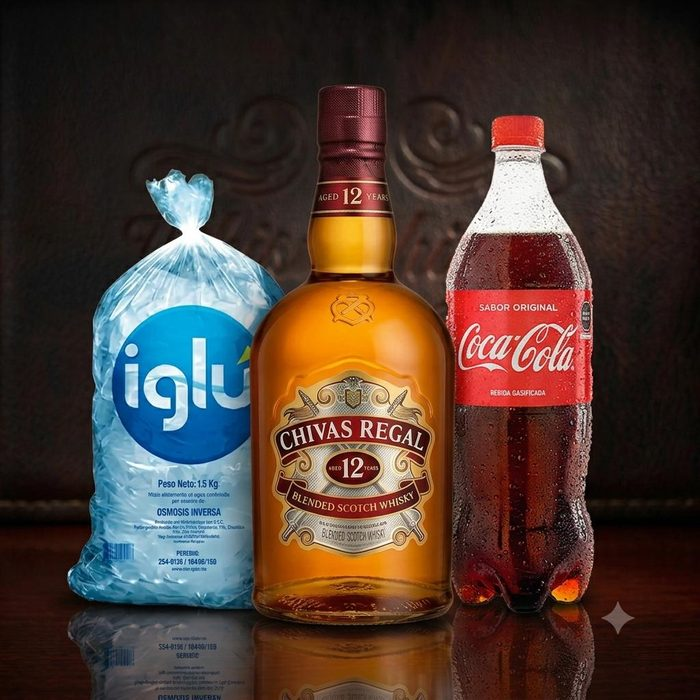
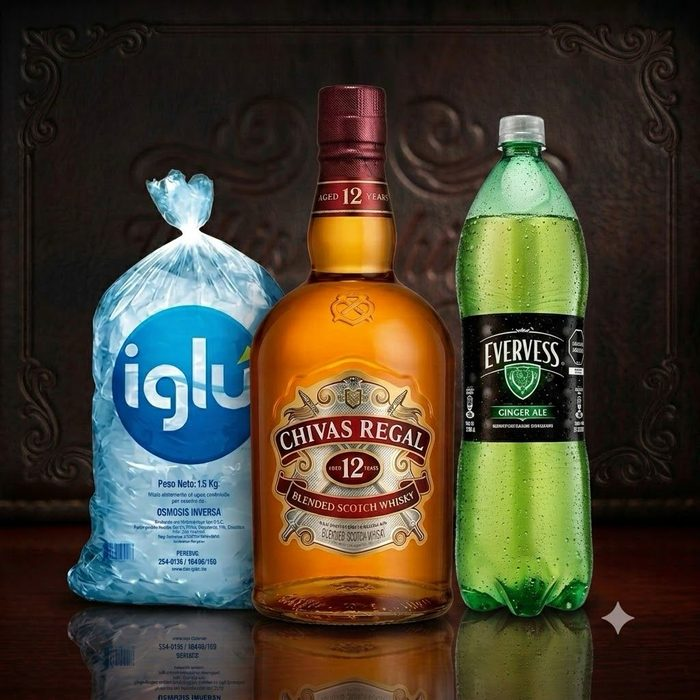
Add files via upload

diff --git a/index.html b/index.html
@@ -487,19 +487,19 @@
       <div class="cat-grupo-titulo"><h3>Combos listos</h3><span>Botella + hielo + mixer, todo en un pedido</span></div>
       <div class="combos-grid">
         <div class="combo-card">
-          <div class="foto"><img src="combo-johnnie-walker-red.jpg" alt="Combo Johnnie Walker Red Label con hielo y Coca-Cola"></div>
+          <div class="foto"><img src="combo-johnnie-walker-red.jpg" alt="Combo Johnnie Walker Red Label con hielo y Evervess Ginger Ale"></div>
           <div class="info">
-            <p class="c-nombre">Combo Johnnie Walker Red Label + Hielo + Coca-Cola</p>
-            <p class="c-precio">S/ 92.00</p>
-            <a class="p-pedir" href="https://wa.me/51901983603?text=Hola%2C%20quiero%20el%20combo%20Johnnie%20Walker%20Red%20Label%20%2B%20Hielo%20%2B%20Coca-Cola%20(S%2F%2092.00)" target="_blank">Pedir</a>
+            <p class="c-nombre">Combo Johnnie Walker Red Label + Hielo + Evervess</p>
+            <p class="c-precio">S/ 90.00</p>
+            <a class="p-pedir" href="https://wa.me/51901983603?text=Hola%2C%20quiero%20el%20combo%20Johnnie%20Walker%20Red%20Label%20%2B%20Hielo%20%2B%20Evervess%20(S%2F%2090.00)" target="_blank">Pedir</a>
           </div>
         </div>
         <div class="combo-card">
-          <div class="foto"><img src="combo-chivas-regal-12.jpg" alt="Combo Chivas Regal 12 años con hielo y Coca-Cola"></div>
+          <div class="foto"><img src="combo-chivas-regal-12.jpg" alt="Combo Chivas Regal 12 años con hielo y Evervess Ginger Ale"></div>
           <div class="info">
-            <p class="c-nombre">Combo Chivas Regal 12 Años + Hielo + Coca-Cola</p>
-            <p class="c-precio">S/ 178.00</p>
-            <a class="p-pedir" href="https://wa.me/51901983603?text=Hola%2C%20quiero%20el%20combo%20Chivas%20Regal%2012%20A%C3%B1os%20%2B%20Hielo%20%2B%20Coca-Cola%20(S%2F%20178.00)" target="_blank">Pedir</a>
+            <p class="c-nombre">Combo Chivas Regal 12 Años + Hielo + Evervess</p>
+            <p class="c-precio">S/ 176.00</p>
+            <a class="p-pedir" href="https://wa.me/51901983603?text=Hola%2C%20quiero%20el%20combo%20Chivas%20Regal%2012%20A%C3%B1os%20%2B%20Hielo%20%2B%20Evervess%20(S%2F%20176.00)" target="_blank">Pedir</a>
           </div>
         </div>
         <div class="combo-card">
@@ -519,11 +519,11 @@
           </div>
         </div>
         <div class="combo-card">
-          <div class="foto"><img src="combo-smirnoff-greenapple.jpg" alt="Combo Vodka Smirnoff Green Apple con hielo y Coca-Cola"></div>
+          <div class="foto"><img src="combo-smirnoff-greenapple.jpg" alt="Combo Vodka Smirnoff Green Apple con hielo y Evervess Ginger Ale"></div>
           <div class="info">
-            <p class="c-nombre">Combo Smirnoff Green Apple + Hielo + Coca-Cola</p>
-            <p class="c-precio">S/ 75.00</p>
-            <a class="p-pedir" href="https://wa.me/51901983603?text=Hola%2C%20quiero%20el%20combo%20Smirnoff%20Green%20Apple%20%2B%20Hielo%20%2B%20Coca-Cola%20(S%2F%2075.00)" target="_blank">Pedir</a>
+            <p class="c-nombre">Combo Smirnoff Green Apple + Hielo + Evervess</p>
+            <p class="c-precio">S/ 74.00</p>
+            <a class="p-pedir" href="https://wa.me/51901983603?text=Hola%2C%20quiero%20el%20combo%20Smirnoff%20Green%20Apple%20%2B%20Hielo%20%2B%20Evervess%20(S%2F%2074.00)" target="_blank">Pedir</a>
           </div>
         </div>
         <div class="combo-card">
